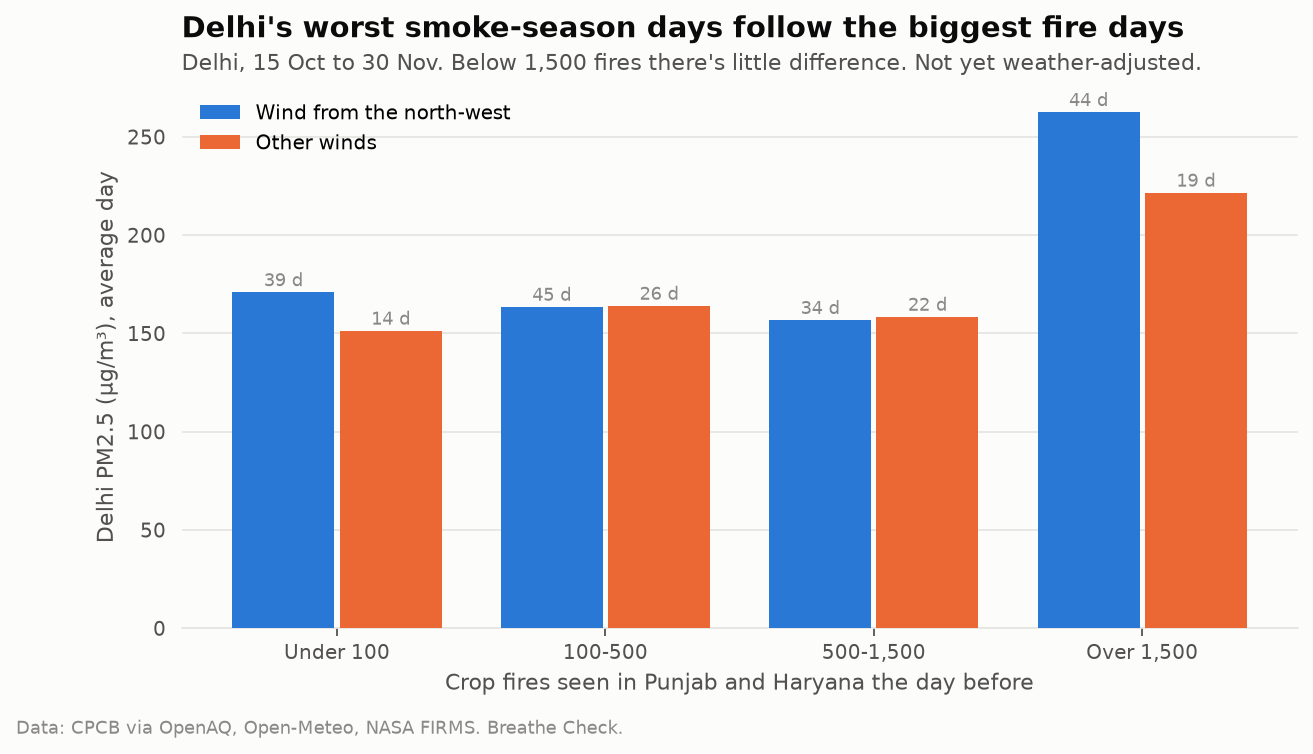
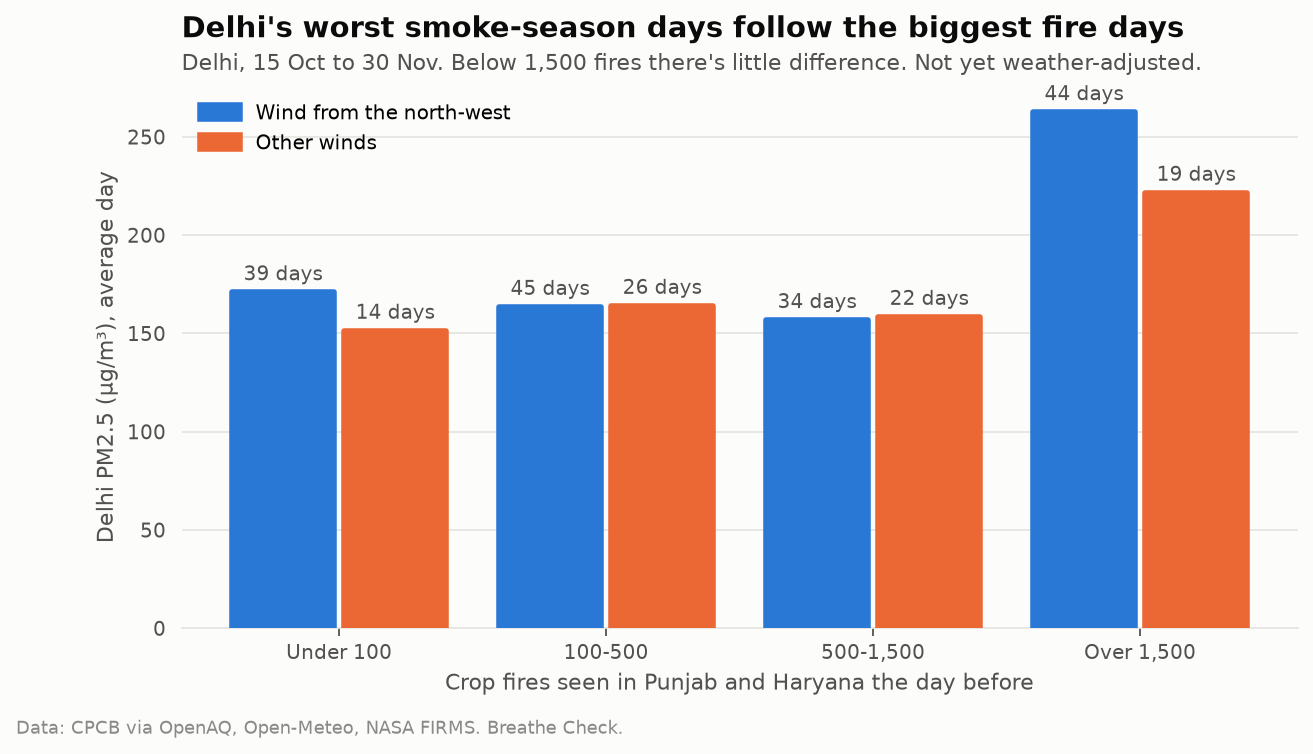
fix: clearer chart labels, cigarette scale on month and Diwali charts, rounded bars

diff --git a/src/breathe_check/analysis/first_look.py b/src/breathe_check/analysis/first_look.py
@@ -49,18 +49,24 @@ def plot_station_coverage(table: pd.DataFrame):
         style.end_label(ax, last["month"], last["n_stations"], group, color)
     gap_start, gap_end = pd.Timestamp("2022-11-01"), pd.Timestamp("2025-02-01")
     ax.axvspan(gap_start, gap_end, color=style.GRID, alpha=0.6, linewidth=0)
+    ax.set_ylim(bottom=0)
     ax.text(
         gap_start + (gap_end - gap_start) / 2,
-        ax.get_ylim()[1] * 0.92,
-        "No CPCB data on OpenAQ",
+        ax.get_ylim()[1] * 0.55,
+        "No CPCB data\non OpenAQ\n(Nov 2022 to\nFeb 2025)",
         ha="center",
+        va="center",
         color=style.TEXT_SECONDARY,
         fontsize=9,
+        linespacing=1.4,
     )
-    ax.set_ylim(bottom=0)
     ax.set_ylabel("Usable stations per day")
     ax.set_title("A three-year hole in the record", pad=22)
-    style.subtitle(ax, "Stations with a usable daily reading, averaged by month.")
+    style.subtitle(
+        ax,
+        "Stations with a usable daily reading, averaged by month. "
+        "Drops to zero in 2018-2021 are months OpenAQ has almost nothing for.",
+    )
     style.source_note(fig)
     return fig
 
@@ -84,8 +90,9 @@ def plot_monthly_profile(table: pd.DataFrame, cities: list[str]):
     ax.set_xticks(range(1, 13), MONTHS)
     ax.set_xlim(0.7, 12.3)
     ax.set_ylim(bottom=0)
-    style.limit_line(ax, INDIA_DAILY_PM25, "India daily limit (60)")
+    style.limit_line(ax, INDIA_DAILY_PM25, "India daily limit (60)", x=0.47)
     style.limit_line(ax, WHO_DAILY_PM25, "WHO daily guideline (15)")
+    style.cigarette_scale(ax)
     ax.set_ylabel("PM2.5 (µg/m³), average day")
     ax.set_title("Winter is the problem everywhere, but most in Delhi", pad=22)
     style.subtitle(ax, "Average daily PM2.5 by month, all years with data (2018-2022, 2025-2026).")
@@ -194,6 +201,7 @@ def plot_diwali(window: pd.DataFrame, cities: list[str]):
     ax.set_xticks(range(-10, 11, 2))
     ax.set_ylim(bottom=0)
     style.limit_line(ax, INDIA_DAILY_PM25, "India daily limit (60)")
+    style.cigarette_scale(ax)
     ax.set_xlabel("Days from Diwali")
     ax.set_ylabel("PM2.5 (µg/m³), average day")
     ax.set_title("The day after Diwali is the dirtiest day of the window", pad=22)
@@ -237,17 +245,18 @@ def plot_fires_and_wind(table: pd.DataFrame):
     for i, (color, wind) in enumerate(zip(style.SERIES, winds, strict=False)):
         part = table[table["wind"] == wind].set_index("fires_bin").reindex(FIRE_LABELS)
         bars = ax.bar(
-            x + (i - 0.5) * (width + 0.02), part["pm25"], width, color=color, label=wind, zorder=3
+            x + (i - 0.5) * (width + 0.04), part["pm25"], width, color=color, label=wind, zorder=3
         )
+        style.round_bars(bars)
         for bar, days in zip(bars, part["days"], strict=True):
             if days and not np.isnan(bar.get_height()):
                 ax.text(
                     bar.get_x() + bar.get_width() / 2,
-                    bar.get_height() + 3,
-                    f"{days} d",
+                    bar.get_height() + 6,
+                    f"{days} days",
                     ha="center",
-                    fontsize=8,
-                    color=style.TEXT_MUTED,
+                    fontsize=9,
+                    color=style.TEXT_SECONDARY,
                 )
     ax.set_xticks(x, FIRE_LABELS)
     ax.set_xlabel("Crop fires seen in Punjab and Haryana the day before")
@@ -283,13 +292,14 @@ def plot_mixing_height(table: pd.DataFrame):
     fig, ax = plt.subplots(figsize=(9, 4.2))
     labels = [f"~{int(round(m, -1))} m" for m in table["mixing_m"]]
     bars = ax.bar(range(len(table)), table["pm25"], 0.62, color=style.SERIES[0], zorder=3)
+    style.round_bars(bars)
     for bar, value in zip(bars, table["pm25"], strict=True):
         ax.text(
             bar.get_x() + bar.get_width() / 2,
             bar.get_height() + 4,
             f"{value:.0f}",
             ha="center",
-            fontsize=9,
+            fontsize=10,
             color=style.TEXT,
         )
     ax.set_xticks(range(len(table)), labels)

diff --git a/src/breathe_check/analysis/style.py b/src/breathe_check/analysis/style.py
@@ -63,12 +63,16 @@ def subtitle(ax, text: str) -> None:
     ax.text(0, 1.02, text, transform=ax.transAxes, color=TEXT_SECONDARY, fontsize=10, va="bottom")
 
 
-def limit_line(ax, y: float, label: str) -> None:
-    """A grey dashed reference line, labelled just above it at the left edge."""
+def limit_line(ax, y: float, label: str, x: float = 0.0) -> None:
+    """A grey dashed reference line, labelled just above it.
+
+    x is where the label starts, as a share of the chart width (0 = left edge).
+    Pick a spot where no data line passes just above the limit.
+    """
     ax.axhline(y, color=TEXT_MUTED, linewidth=1, linestyle=(0, (4, 3)), zorder=1)
     ax.annotate(
         label,
-        (0, y),
+        (x, y),
         xycoords=("axes fraction", "data"),
         xytext=(4, 3),
         textcoords="offset points",
@@ -76,6 +80,35 @@ def limit_line(ax, y: float, label: str) -> None:
         fontsize=8.5,
         va="bottom",
     )
+
+
+def cigarette_scale(ax) -> None:
+    """Relabel the right edge of a PM2.5 chart in cigarettes a day.
+
+    Same quantity, same scale (22 ug/m3 for a day = 1 cigarette, the Berkeley
+    Earth rule of thumb), so this is a second set of tick labels, not a second
+    measure.
+    """
+    from breathe_check.standards import PM25_PER_CIGARETTE
+
+    # Placed a little to the right of the plot, so the line-end labels have room
+    right = ax.secondary_yaxis(
+        1.16, functions=(lambda pm: pm / PM25_PER_CIGARETTE, lambda c: c * PM25_PER_CIGARETTE)
+    )
+    top = ax.get_ylim()[1] / PM25_PER_CIGARETTE
+    step = 1 if top <= 6 else 2 if top <= 12 else 4
+    right.set_yticks(range(0, int(top) + 1, step))
+    right.set_ylabel("Cigarettes a day (rough)", color=TEXT_SECONDARY)
+    right.tick_params(colors=TEXT_SECONDARY, length=0)
+    right.spines["right"].set_visible(False)
+
+
+def round_bars(bars, radius: float = 2.5) -> None:
+    """Give bars slightly rounded corners by stroking them in their own colour."""
+    for bar in bars:
+        bar.set_edgecolor(bar.get_facecolor())
+        bar.set_linewidth(radius)
+        bar.set_joinstyle("round")
 
 
 def end_label(ax, x, y, text: str, color: str) -> None:

diff --git a/reports/01-first-look.md b/reports/01-first-look.md
@@ -4,6 +4,10 @@ What the cleaned data shows before any modelling. These are plain averages, so w
 
 Make the charts yourself: `make figures`.
 
+**How to read the charts**
+- Grey dashed lines are limits: India's daily limit (60 µg/m³) and the WHO daily guideline (15).
+- The right-hand scale on the month and Diwali charts turns PM2.5 into cigarettes a day, using the Berkeley Earth rule of thumb that 22 µg/m³ for a day is about one cigarette. It's a rough comparison, not a medical measure.
+
 ## 1. A three-year hole in the record
 
 ![Stations reporting over time](figures/01_station_coverage.png)
